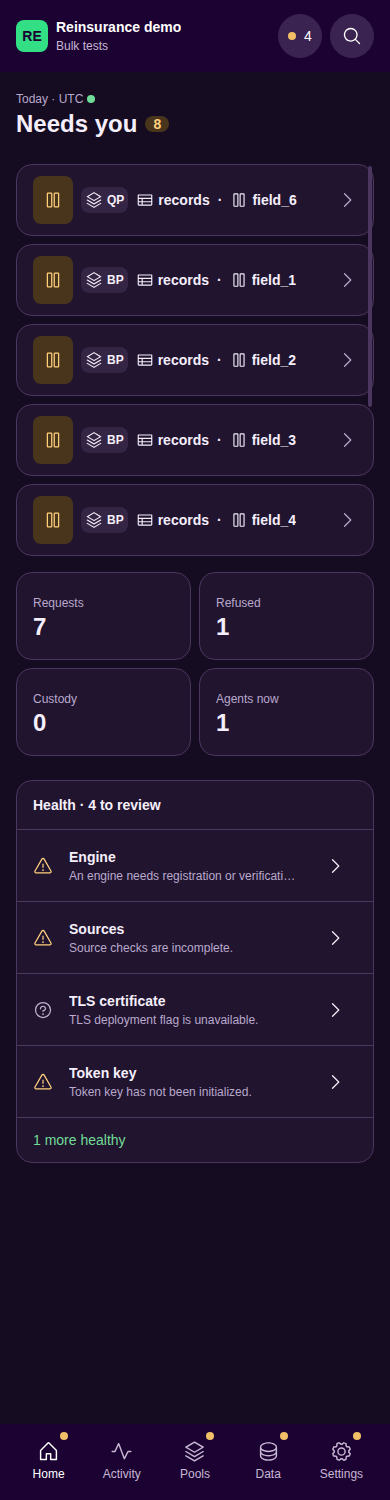
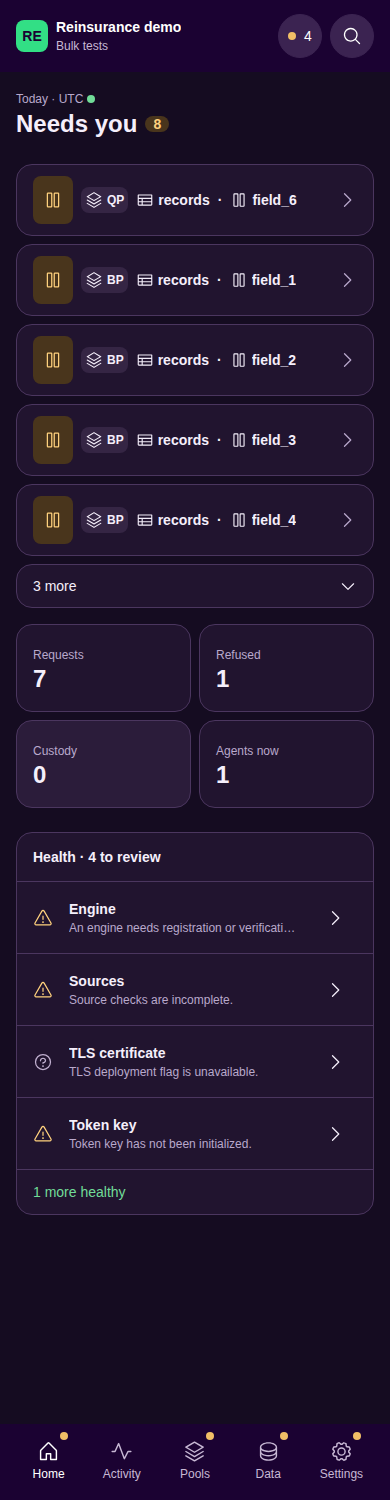
Expand remaining Home needs-you items in place on phones

diff --git a/test/review/console-next.capture.ts b/test/review/console-next.capture.ts
@@ -47,16 +47,26 @@ it('captures Home from real PostgreSQL projections, real engine queries and Redi
     await page.getByRole('heading',{name:/Needs you/}).waitFor();await page.locator('[data-health-icon][aria-label^="TLS certificate:"]').waitFor({state:'attached'});await expect.poll(()=>page.locator('[data-live=true]').count()).toBeGreaterThan(0);await page.evaluate(()=>document.fonts.ready);
     expect(await page.evaluate(()=>document.documentElement.scrollWidth<=window.innerWidth)).toBe(true);
     expect(await page.locator('[data-needs-row]').count()).toBe(expectedNeeds);
-    const queue=page.getByRole('region',{name:'Needs-you items'});expect(await queue.evaluate(el=>el.scrollHeight>el.clientHeight)).toBe(true);
-    await page.keyboard.press('Tab');await page.locator('[data-needs-row]').last().focus();const focus=await page.locator('[data-needs-row]').last().evaluate(el=>({visible:el.matches(':focus-visible'),width:parseFloat(getComputedStyle(el).outlineWidth),style:getComputedStyle(el).outlineStyle}));expect(focus.visible).toBe(true);expect(focus.width).toBeGreaterThanOrEqual(2);expect(focus.style).toBe('solid');const bounds=await queue.boundingBox(),last=await page.locator('[data-needs-row]').last().boundingBox();expect(last!.y).toBeGreaterThanOrEqual(bounds!.y-1);expect(last!.y+last!.height).toBeLessThanOrEqual(bounds!.y+bounds!.height+1);
-    await queue.evaluate(el=>{el.scrollTop=0;});await page.evaluate(()=>{if(document.activeElement instanceof HTMLElement)document.activeElement.blur();});
+    const queue=page.getByRole('region',{name:'Needs-you items'});
+    if(width===390){
+     expect(await page.locator('[data-needs-row]:visible').count()).toBe(Math.min(5,expectedNeeds));
+     expect(await queue.evaluate(el=>el.scrollHeight<=el.clientHeight+1)).toBe(true);
+     const more=page.getByRole('button',{name:`${expectedNeeds-5} more`,exact:true});await more.click();
+     expect(await page.locator('[data-needs-row]:visible').count()).toBe(expectedNeeds);expect(await queue.evaluate(el=>el.scrollHeight<=el.clientHeight+1)).toBe(true);
+    }else{
+     expect(await queue.evaluate(el=>el.scrollHeight>el.clientHeight)).toBe(true);expect(await page.locator('[data-needs-more]').isVisible()).toBe(false);
+    }
+    await page.keyboard.press('Tab');await page.locator('[data-needs-row]').last().focus();const focus=await page.locator('[data-needs-row]').last().evaluate(el=>({visible:el.matches(':focus-visible'),width:parseFloat(getComputedStyle(el).outlineWidth),style:getComputedStyle(el).outlineStyle}));expect(focus.visible).toBe(true);expect(focus.width).toBeGreaterThanOrEqual(2);expect(focus.style).toBe('solid');
+    const bounds=await queue.boundingBox(),last=await page.locator('[data-needs-row]').last().boundingBox();expect(last!.y).toBeGreaterThanOrEqual(bounds!.y-1);expect(last!.y+last!.height).toBeLessThanOrEqual(bounds!.y+bounds!.height+1);
+    if(width===390){await page.getByRole('button',{name:'Show fewer',exact:true}).click();expect(await page.locator('[data-needs-row]:visible').count()).toBe(5);}
+    await queue.evaluate(el=>{el.scrollTop=0;});await page.evaluate(()=>{if(document.activeElement instanceof HTMLElement)document.activeElement.blur();window.scrollTo(0,0);});
     expect(await page.locator('[data-need-effect]').count()).toBe(0);expect(await page.locator('[data-needs]').textContent()).not.toContain('—');
     for(const name of ['Pools','Data','Settings'])expect(await page.getByRole('navigation',{name:'Main navigation'}).getByRole('link',{name}).locator('[data-attention]').count()).toBe(1);
     if(width===1440){const check=page.locator('[data-health-icon][data-status=warning]').first();await check.hover();await page.getByRole('tooltip').waitFor();expect(await page.getByRole('tooltip').textContent()).toMatch(/verification|check|initialized/);}
     await page.keyboard.press('Escape');await page.mouse.move(100,800);if(width===1440){await page.getByRole('tooltip').waitFor({state:'hidden'});await page.locator('[data-kind=table]').first().hover();await page.getByRole('tooltip').waitFor();expect(await page.getByRole('tooltip').textContent()).toBe('table');await page.keyboard.press('Escape');await page.mouse.move(100,800);await page.getByRole('tooltip').waitFor({state:'hidden'});}
 
     if(width===390){for(const link of await page.locator('[data-rail] nav a').all()){const box=await link.boundingBox();expect(box).not.toBeNull();expect(box!.width).toBeGreaterThanOrEqual(44);expect(box!.height).toBeGreaterThanOrEqual(44);expect(box!.y+box!.height).toBeLessThanOrEqual(height);}}
-    await page.screenshot({path:`${directory}/home-${width}-${theme}.png`,fullPage:true});
+    if(width===390)await page.screenshot({path:`${directory}/home-${width}-${theme}.png`,fullPage:true});
    }
   }
   // Persisting a new completion updates the band through the actual stream.
@@ -69,6 +79,6 @@ it('captures Home from real PostgreSQL projections, real engine queries and Redi
   await page.emulateMedia({reducedMotion:'no-preference'});await page.getByText('field_6',{exact:true}).first().click();await page.locator('[data-need-effect]').waitFor();await page.waitForTimeout(250);await page.locator('[data-needs-row][aria-expanded=true]').click();
   await hub.close();await page.getByText('Polling · 15 s').waitFor();
   await context.close();expect(errors).toEqual([]);expect(responses.filter(r=>r.status>=400)).toEqual([]);
-  const stats=unwrap(await new PostgresDashboardReader().stats(f.ctx));await writeFile(`${directory}/capture.json`,JSON.stringify({capturedAt:new Date().toISOString(),fixture:'Isolated test database; real PostgreSQL read models, real Engine requests and Redis SSE. Authentication supplied by the fixture, not production credentials.',viewportPairs:[[1440,1000],[390,1500]],queueItems:expectedNeeds,allQueueRowsReachable:true,attentionAreas:['Pools','Data','Settings'],reducedMotion:'reduce',keyboardFocusVisible:true,kindHoverVerified:true,healthReasonHoverVerified:true,bandFiltersVerified:true,requestsAtCapture:7,requestsAfterLiveCheck:stats.requests,apiResponses:responses,pageErrors:errors},null,2)+'\n');
+  const stats=unwrap(await new PostgresDashboardReader().stats(f.ctx));await writeFile(`${directory}/capture.json`,JSON.stringify({capturedAt:new Date().toISOString(),fixture:'Isolated test database; real PostgreSQL read models, real Engine requests and Redis SSE. Authentication supplied by the fixture, not production credentials.',viewportPairs:[[1440,1000],[390,1500]],screenshotsCaptured:[[390,1500]],phoneInitialItems:5,phoneMoreItems:expectedNeeds-5,phoneExpandsInPlace:true,desktopInnerScroll:true,queueItems:expectedNeeds,allQueueRowsReachable:true,attentionAreas:['Pools','Data','Settings'],reducedMotion:'reduce',keyboardFocusVisible:true,kindHoverVerified:true,healthReasonHoverVerified:true,bandFiltersVerified:true,requestsAtCapture:7,requestsAfterLiveCheck:stats.requests,apiResponses:responses,pageErrors:errors},null,2)+'\n');
  }finally{await browser.close();await vite.close();api.closeAllConnections();await new Promise<void>(resolve=>api.close(()=>resolve()));await hub.close();await redis.close();await f.close();}
 });

diff --git a/src/console-next/home/screen.tsx b/src/console-next/home/screen.tsx
@@ -1,7 +1,7 @@
 import type {CSSProperties} from 'react';
 import {NeedName,needsAreas} from './needs.js';
 import {ExposureDetails} from './exposure.js';
-import {useState,useRef} from 'react';
+import {useState,useRef,useId} from 'react';
 import {motion,useReducedMotion} from 'motion/react';
 import type {ProjectHealthItem} from '../../shared/api/project-health.js';
 import type {NeedsYouItem} from '../../shared/api/needs-you.js';
@@ -31,11 +31,11 @@ function kindFor(item:NeedsYouItem):Kind|'settings'|'tls'|'engine'{if(item.kind=
 function actionFor(item:NeedsYouItem){return item.kind==='undecided_entitlement'?'Decide':item.kind==='missing_row_decision'?'Set rows':item.kind==='setting_required'?'Set':item.kind==='suggestion'?'Review':'Check';}
 function effectFor(item:NeedsYouItem){return item.kind==='undecided_entitlement'?`${item.count===1?'This column stays':`${item.count} columns stay`} hidden from agents until a treatment is decided.`:item.kind==='missing_row_decision'?'This table stays unavailable to this pool until row access is decided.':item.kind==='suggestion'?'Review the suggested relationship before changing treatments.':item.kind==='observation'?'The recorded finding stays open until its owning condition changes.':'Review the saved setting or check at its destination. Opening this item changes no configuration.';}
 export function NeedsList({items,project,complete,live}:{items:NeedsYouItem[];project:Project;complete:boolean;live:boolean}){
- const order=useHomeState(s=>s.order),expandedId=useHomeState(s=>s.expandedNeed),toggle=useHomeState(s=>s.toggleNeed),reduced=useReducedMotion(),ordered=orderNeeds(items,order,project.role);
- return <section data-needs><header><span data-mobile-today>Today · UTC <span data-live={live} role="img" aria-label={live?'Live updates':'Polling every 15 seconds'}/></span><h1>Needs you <span data-badge data-status="warning">{items.length}{complete?'':'+'}</span></h1></header>{!items.length?<ListState state="empty"/>:<ScrollArea.Root type="always" data-needs-scroll style={{'--queue-rows':items.length} as CSSProperties}><ScrollArea.Viewport data-needs-viewport tabIndex={0} role="region" aria-label="Needs-you items"><ul>{ordered.map(item=>{
+ const queueId=useId(),showAll=useHomeState(s=>s.showAllNeeds),toggleAll=useHomeState(s=>s.toggleAllNeeds),order=useHomeState(s=>s.order),expandedId=useHomeState(s=>s.expandedNeed),toggle=useHomeState(s=>s.toggleNeed),reduced=useReducedMotion(),ordered=orderNeeds(items,order,project.role);
+ return <section data-needs data-phone-expanded={showAll}><header><span data-mobile-today>Today · UTC <span data-live={live} role="img" aria-label={live?'Live updates':'Polling every 15 seconds'}/></span><h1>Needs you <span data-badge data-status="warning">{items.length}{complete?'':'+'}</span></h1></header>{!items.length?<ListState state="empty"/>:<ScrollArea.Root type="always" data-needs-scroll style={{'--queue-rows':items.length} as CSSProperties}><ScrollArea.Viewport id={queueId} data-needs-viewport tabIndex={0} role="region" aria-label="Needs-you items"><ul>{ordered.map((item,index)=>{
  const expanded=item.id===expandedId,detailId='need-effect-'+encodeURIComponent(item.id);
- return <motion.li key={item.id} layout={reduced?false:'position'} initial={false} transition={{duration:reduced?0:0.2}}><button data-needs-row aria-expanded={expanded} aria-controls={detailId} onClick={()=>toggle(item.id)}><Tip label={kindFor(item).replaceAll('_',' ')}><span role="img" aria-label={kindFor(item).replaceAll('_',' ')} data-kind-tile data-tone={item.kind==='undecided_entitlement'||item.kind==='missing_row_decision'?'decision':'neutral'}><Glyph name={kindFor(item)} size={20}/></span></Tip><span data-need-copy><NeedName item={item}/></span><span data-row-action>{item.roles.includes(project.role)?actionFor(item):'View'}</span><span data-mobile-chevron><Glyph name="chevron" size={20}/></span></button>{expanded&&<motion.div id={detailId} data-need-effect initial={reduced?false:{opacity:0}} animate={{opacity:1}} transition={{duration:reduced?0:0.2}}><p title={effectFor(item)}>{item.kind==='undecided_entitlement'?(item.count===1?'Column stays hidden until treated':'Columns stay hidden until treated'):effectFor(item)}</p><a data-action href={item.targetRoute}>{item.roles.includes(project.role)?actionFor(item):'View details'}<Glyph name="chevron" size={18}/></a></motion.div>}</motion.li>;
- })}</ul>{!complete&&<p data-list-note role="alert">The complete queue could not be read. Retry to load all items.</p>}</ScrollArea.Viewport><ScrollArea.Scrollbar orientation="vertical" data-scrollbar><ScrollArea.Thumb data-scroll-thumb/></ScrollArea.Scrollbar></ScrollArea.Root>}
+ return <motion.li key={item.id} data-phone-extra={index>=5&&!showAll?true:undefined} layout={reduced?false:'position'} initial={false} transition={{duration:reduced?0:0.2}}><button data-needs-row aria-expanded={expanded} aria-controls={detailId} onClick={()=>toggle(item.id)}><Tip label={kindFor(item).replaceAll('_',' ')}><span role="img" aria-label={kindFor(item).replaceAll('_',' ')} data-kind-tile data-tone={item.kind==='undecided_entitlement'||item.kind==='missing_row_decision'?'decision':'neutral'}><Glyph name={kindFor(item)} size={20}/></span></Tip><span data-need-copy><NeedName item={item}/></span><span data-row-action>{item.roles.includes(project.role)?actionFor(item):'View'}</span><span data-mobile-chevron><Glyph name="chevron" size={20}/></span></button>{expanded&&<motion.div id={detailId} data-need-effect initial={reduced?false:{opacity:0}} animate={{opacity:1}} transition={{duration:reduced?0:0.2}}><p title={effectFor(item)}>{item.kind==='undecided_entitlement'?(item.count===1?'Column stays hidden until treated':'Columns stay hidden until treated'):effectFor(item)}</p><a data-action href={item.targetRoute}>{item.roles.includes(project.role)?actionFor(item):'View details'}<Glyph name="chevron" size={18}/></a></motion.div>}</motion.li>;
+ })}</ul>{!complete&&<p data-list-note role="alert">The complete queue could not be read. Retry to load all items.</p>}</ScrollArea.Viewport><ScrollArea.Scrollbar orientation="vertical" data-scrollbar><ScrollArea.Thumb data-scroll-thumb/></ScrollArea.Scrollbar></ScrollArea.Root>}{items.length>5&&<button data-needs-more aria-expanded={showAll} aria-controls={queueId} onClick={()=>{toggleAll();if(!showAll)requestAnimationFrame(()=>{document.getElementById(queueId)?.querySelectorAll<HTMLButtonElement>('[data-needs-row]')[5]?.focus({preventScroll:true});});}}><span>{showAll?'Show fewer':`${items.length-5} more`}</span><Glyph name="chevron" size={18}/></button>}
  </section>;
 }
 

diff --git a/src/console-next/home/home.test.tsx b/src/console-next/home/home.test.tsx
@@ -19,7 +19,7 @@ const stats=DashboardStats.parse({asOf:now.toISOString(),utcDay:'2026-10-29',poo
 const data:HomeData={stats,summary:{counts:{all:42,refused:7,incomplete:0,answerTreated:10},days:[],custody:[{day:'2026-10-29',state:'granted',origin:null,count:9}]},needs,needsComplete:true,minutes:null,asOf:now.toISOString(),from:'2026-10-29T00:00:00.000Z',to:now.toISOString()};
 const health=ProjectHealth.parse({items:[{kind:'tls',status:'warning',checked_at:null,reason:'Self-signed TLS is in use.',next_action:{label:'Review TLS',href:`/projects/${id}/settings-project`}}]}).items;
 const wrapper=({children}:{children:React.ReactNode})=><QueryClientProvider client={new QueryClient({defaultOptions:{queries:{retry:false}}})}><Tooltip.Provider delayDuration={0}>{children}</Tooltip.Provider></QueryClientProvider>;
-afterEach(()=>{useHomeState.setState({order:'all',theme:'light',expandedNeed:null});vi.useRealTimers();});
+afterEach(()=>{useHomeState.setState({order:'all',theme:'light',expandedNeed:null,showAllNeeds:false});vi.useRealTimers();});
 describe('Home contract',()=>{
  it('uses summary numbers, stats presence and actual needs; hides unavailable strip',()=>{
   render(<HomeView project={project} projects={[project]} data={data} health={health} live onProject={()=>{}}/>,{wrapper});
@@ -94,4 +94,17 @@ it('the Custody band opens only receipts with granted events, not other custody 
  const granted=make(id),expired=make(other),detail=(run:typeof granted,kind:'granted'|'expired')=>EvidenceDetail.parse({...run,releaseEvents:[{grantId:id,receipt:run.id,provider:'local',kind,at:now.toISOString(),alias:'test',actor:null,jurObserved:null}],completedAt:now.toISOString(),tokenKeyVersionUsed:null,truncated:false,refusalCode:null,generatedSql:null,elements:[],stages:[],sources:[]});
  const fetcher=async(path:string)=>({ok:true,status:200,headers:{get:()=>null},text:async()=>JSON.stringify(path.includes('/projects/')?{items:[granted,expired],nextCursor:null}:path.includes('/runs/'+id+'?')?detail(granted,'granted'):detail(expired,'expired'))});
  const result=await readCustodyReceipts(other,data.from,data.to,1,createApiClient(fetcher));expect(result.map(r=>r.id)).toEqual([id]);expect(Object.keys(result[0]!).sort()).toEqual(['id','rowCount','startedAt','status']);
+});
+
+it('phone disclosure shows the exact remaining count and expands in place without removing desktop rows',()=>{
+ const many=Array.from({length:8},(_,i)=>NeedsYouItem.parse({...needs[1],id:'phone:'+i}));
+ const view=render(<HomeView project={project} projects={[project]} data={{...data,needs:many}} health={health} live onProject={()=>{}}/>,{wrapper});
+ expect(view.container.querySelectorAll('[data-needs-row]')).toHaveLength(8);expect(view.container.querySelectorAll('[data-phone-extra=true]')).toHaveLength(3);
+ const more=screen.getByRole('button',{name:'3 more'});expect(more.getAttribute('aria-expanded')).toBe('false');expect(more.getAttribute('aria-controls')).toBe(screen.getByRole('region',{name:'Needs-you items'}).id);
+ fireEvent.click(more);expect(view.container.querySelectorAll('[data-phone-extra=true]')).toHaveLength(0);expect(screen.getByRole('button',{name:'Show fewer'}).getAttribute('aria-expanded')).toBe('true');
+ fireEvent.click(screen.getByRole('button',{name:'Show fewer'}));expect(view.container.querySelectorAll('[data-phone-extra=true]')).toHaveLength(3);
+});
+it('no phone disclosure appears for at most five items and a project switch resets it',()=>{
+ const view=render(<HomeView project={project} projects={[project]} data={data} health={health} live onProject={()=>{}}/>,{wrapper});expect(view.container.querySelector('[data-needs-more]')).toBeNull();
+ act(()=>{useHomeState.getState().toggleAllNeeds();});expect(useHomeState.getState().showAllNeeds).toBe(true);act(()=>{useHomeState.getState().setProject(other);});expect(useHomeState.getState().showAllNeeds).toBe(false);
 });

diff --git a/src/console-next/styles.css b/src/console-next/styles.css
@@ -12,3 +12,14 @@
 
 [data-need-copy] [data-need-name]{display:flex;align-items:center;gap:var(--space-1);min-width:0;overflow:hidden}[data-pool-badge]{display:inline-flex;align-items:center;gap:calc(var(--space-1)/2);flex-shrink:0;padding:calc(var(--space-1)/2);background:var(--neutral);border-radius:var(--radius-1);font-size:var(--text-1)}[data-table-names]{display:flex;min-width:0;flex:0 1 auto;gap:calc(var(--space-1)/2);overflow:hidden}[data-table-names]>span,[data-column-name]{display:inline-flex;align-items:center;gap:calc(var(--space-1)/2);min-width:0;overflow:hidden}[data-table-names]>span>span:last-child,[data-column-name]>span:last-child{overflow:hidden;text-overflow:ellipsis;white-space:nowrap}[data-column-name]{flex:1;min-width:0}[data-kind]{display:inline-flex;flex-shrink:0}[data-need-effect]{height:var(--row-detail);padding:var(--space-1) var(--space-2);display:flex;align-items:center;justify-content:space-between;gap:var(--space-2);background:var(--surface-hover);border-top:var(--hairline) solid var(--border)}[data-need-effect] p{min-width:0;overflow:hidden;white-space:nowrap;text-overflow:ellipsis;color:var(--muted);font-size:var(--text-1)}[data-need-effect] [data-action]{flex-shrink:0}[data-needs-row][aria-expanded=true] [data-mobile-chevron]{transform:rotate(90deg)}
 [data-needs-row]:focus-visible,[data-needs-viewport]:focus-visible{outline-offset:calc(var(--focus)*-1)}
+
+[data-needs-more]{display:none}
+@media(max-width:700px){
+ [data-needs-scroll]{height:auto!important;overflow:visible!important}
+ [data-needs-viewport]{height:auto!important;overflow:visible!important}
+ [data-phone-extra=true]{display:none}
+ [data-needs-scroll] [data-scrollbar]{display:none!important}
+ [data-needs-more]{display:flex;align-items:center;justify-content:space-between;width:100%;min-height:var(--touch);margin-top:var(--space-1);padding:var(--space-1) var(--space-2);border-radius:var(--radius-2);background:var(--surface);color:var(--ink)}
+ [data-needs-more] svg{transform:rotate(90deg)}
+ [data-needs-more][aria-expanded=true] svg{transform:rotate(-90deg)}
+}

diff --git a/src/console-next/home/state.ts b/src/console-next/home/state.ts
@@ -1,7 +1,7 @@
 import {create} from 'zustand';
 export type Order='all'|'decisions'|'running';
 export type Theme='light'|'dark';
-export const useHomeState=create<{order:Order;theme:Theme;expandedNeed:string|null;toggleNeed:(id:string)=>void;project:string|null;setProject:(project:string)=>void;setOrder:(order:Order)=>void;setTheme:(theme:Theme)=>void}>(set=>({
- order:'all',expandedNeed:null,toggleNeed:id=>set(state=>({expandedNeed:state.expandedNeed===id?null:id})),project:typeof window==='undefined'?null:new URLSearchParams(window.location.search).get('project'),setProject:project=>set({project}),theme:typeof window!=='undefined'&&(new URLSearchParams(window.location.search).get('theme')==='dark'||(!new URLSearchParams(window.location.search).has('theme')&&window.matchMedia('(prefers-color-scheme: dark)').matches))?'dark':'light',
+export const useHomeState=create<{order:Order;theme:Theme;showAllNeeds:boolean;toggleAllNeeds:()=>void;expandedNeed:string|null;toggleNeed:(id:string)=>void;project:string|null;setProject:(project:string)=>void;setOrder:(order:Order)=>void;setTheme:(theme:Theme)=>void}>(set=>({
+ order:'all',showAllNeeds:false,toggleAllNeeds:()=>set(state=>({showAllNeeds:!state.showAllNeeds})),expandedNeed:null,toggleNeed:id=>set(state=>({expandedNeed:state.expandedNeed===id?null:id})),project:typeof window==='undefined'?null:new URLSearchParams(window.location.search).get('project'),setProject:project=>set({project,showAllNeeds:false}),theme:typeof window!=='undefined'&&(new URLSearchParams(window.location.search).get('theme')==='dark'||(!new URLSearchParams(window.location.search).has('theme')&&window.matchMedia('(prefers-color-scheme: dark)').matches))?'dark':'light',
  setOrder:order=>set({order}),setTheme:theme=>set({theme}),
 }));

diff --git a/docs/review/console-backend/phase1.md b/docs/review/console-backend/phase1.md
@@ -29,7 +29,8 @@ changes and respects reduced motion. Text contrast pairs are tested at AA.
   All/Decisions/Running it and the viewer's role reorder the same queue. Expanding
   an item reveals its effect and the link to the existing resolving screen.
   Collapsed rows show no effect line. Every item remains in the internal scroll
-  viewport; pages are read through the terminal cursor.
+  viewport on desktop; phones show five plus an expanding “N more” row. Pages
+  are read through the terminal cursor.
 - Requests/refusals/custody use `/runs/summary`; connected agents use `/stats`.
   Custody means receipts with grants, not decrypted values. Numbers open their
   filtered existing list or a Home drill-down of actual API records. The custody
@@ -50,7 +51,8 @@ changes and respects reduced motion. Text contrast pairs are tested at AA.
 The layout follows 02-HomeLight and 03-HomeMobile: desktop rail, project switcher,
 health/order header, four numbers, queue/height-filling ring, then the strip;
 phone header, queue, stacked two-by-two numbers, health list and fixed bottom
-navigation. The queue has fixed-height rows with an internal scroll area.
+navigation. The queue has fixed-height rows: desktop uses an internal scroll area; phones
+show five items plus an exact “N more” disclosure and expand in the page.
 
 Intentional differences dictated by available backend facts:
 
@@ -89,7 +91,7 @@ actual API response statuses, live-check counts and browser page errors.
 
 ## Validation
 
-- `npm run console:test`: 14 tests passed (including light/dark AA text pairs).
+- `npm run console:test`: 16 tests passed (including light/dark AA text pairs).
 - `npm run typecheck`: passed, strict.
 - `npm run lint`: passed; no dependency violations.
 - Targeted backend/contract suite: 43 tests passed across health, completion,
@@ -106,8 +108,9 @@ The local test database was missing existing migration 087. It was applied using
 application environment file was changed. The screenshot browser ran in Docker
 because native Playwright Chromium does not support this Mac's OS version.
 
-No full gate or merge was run. The Home review follow-up authorizes a commit
-and push to `feat/console-home-fixes`; the final handoff records its commit.
+The phone-completion follow-up authorizes one full gate after its commit on
+`feat/console-home-fixes`, then merge and push to main only on pass. The final
+handoff records the gate outcome and merge commit.
 
 
 ## Home review confirmations
@@ -120,7 +123,8 @@ and push to `feat/console-home-fixes`; the final handoff records its commit.
   tooltips name the kind. Pool badges show the full pool name on hover. Row
   separators are `·`; tables/views retain their actual kind.
 - **Keyboard focus:** the queue is a focusable region, every row remains
-  reachable, and focused rows have a visible inset token-blue outline. Browser
+  reachable (using “N more” on phones), and focused rows have a visible inset
+  token-blue outline. Browser
   checks reach the last row at both widths and assert `:focus-visible` plus its
   solid outline. No row is sliced out of the DOM.
 - **Reduced motion:** Motion layout/fades are disabled for the reduced-motion

diff --git a/docs/review/console-backend/home-fixes.md b/docs/review/console-backend/home-fixes.md
@@ -1,11 +1,12 @@
 # Home review fixes
 
 Delivery branch: `feat/console-home-fixes`. The current console is unchanged.
-This branch contains the parallel Home and its reviewed corrections; no merge
-or full gate is part of this delivery.
+This branch contains the parallel Home and its reviewed corrections. The phone
+completion authorizes one full gate after commit, then merge/push only on pass.
 
 1. Every needs-you page is read to its terminal cursor. All items remain mounted
-   in fixed-height rows, with scrolling inside the card. Keyboard focus reaches
+   in fixed-height rows. Desktop scrolls inside the card; phones show five items
+   plus “N more”, expanding the remainder into the page. Keyboard focus reaches
    the final item. The former 100-page cap is covered by a 101-page regression.
 2. Known setup and failed-check findings use warning, including missing engine
    registration/verification, failed or incomplete source checks, uninitialized
@@ -29,7 +30,7 @@ cover these behaviors. No authorization, entitlement or query guard changed.
 
 ## Validation
 
-- Console tests: 14 passed.
+- Console tests: 16 passed.
 - Needs-you/health backend tests: 10 passed.
 - Strict typecheck: passed.
 - Lint: passed.
@@ -50,3 +51,15 @@ cover these behaviors. No authorization, entitlement or query guard changed.
 The screenshot numbers/names are actual isolated fixture results, not the
 illustrative reference values. Mail remains omitted; an unreadable TLS flag is
 unknown. Unrelated pre-existing local changes are excluded from the commit.
+
+
+## Phone completion
+
+Phone width is the existing <=700 px breakpoint. With eight real fixture items,
+Home initially shows five and “3 more”. Expanding shows all eight in place;
+there is no internal phone scroll. Desktop scrolling is unchanged. Project
+switches reset the phone disclosure. Screenshots above are the updated phone
+views (desktop reference captures are retained).
+
+The full gate is run exactly once after the candidate commit. Its result and,
+only on pass, the pushed main merge commit are recorded in the final handoff.

diff --git a/docs/slice1-technical-documentation.md b/docs/slice1-technical-documentation.md
@@ -6194,8 +6194,10 @@ badge (derived from its name, full name on hover), table/view and column using
 the shared kind marks; it does not parse a title to infer entity identity.
 
 All needs-you pages are read to the terminal cursor, with repeated cursors
-rejected. Every item is in the fixed-row list; its bounded, keyboard-focusable
-viewport scrolls inside the card. Expanding a row alone reveals its effect and
+rejected. Desktop keeps every item in the fixed-row list and its bounded,
+keyboard-focusable viewport scrolls inside the card. At phone widths (<=700 px),
+only the first five items are initially visible; an exact “N more” row expands
+the remaining items in place with natural page scrolling. Expanding a row alone reveals its effect and
 resolving action. Navigation dots derive only from needs-you kinds: column/row
 findings mark Data and Pools; settings/check findings mark Settings.
 

diff --git a/docs/test-specification.md b/docs/test-specification.md
@@ -1835,3 +1835,11 @@ expansion, needs-only area dots, and granted-receipt custody filtering.
 The manual capture asserts visible keyboard focus, kind/reason hover text,
 all four viewport/theme variants, real filter drill-downs and reduced-motion
 expansion. No governance assertion or normal-test hang guard is weakened.
+
+Phone Home completion: at <=700 px only the first five rows are initially
+visible; the exact remaining count expands the complete list in the page,
+without an inner scroll. Collapse and project switches reset the disclosure.
+Desktop still renders every row in its bounded inner viewport. Console units
+cover the count/state contract; the real-browser capture checks responsive
+visibility, expansion and absence/presence of internal scrolling, with phone
+light/dark artifacts. Full gate runs once after the candidate commit.

diff --git a/src/console-next/README.md b/src/console-next/README.md
@@ -52,8 +52,9 @@ fixture identity. No API responses or rendered numbers are mocked for captures.
 Artifacts go to `docs/review/console-backend/phase1-screenshots/`.
 
 
-Review corrections: the entire queue remains in a fixed-height scroll viewport,
-including rows below the fold. Decision labels use API-provided pool/table/column
+Review corrections: desktop keeps the entire queue in a fixed-height scroll
+viewport. Phones show five items plus an exact “N more” disclosure; expanding
+reveals the rest in the page without internal scrolling. Decision labels use API-provided pool/table/column
 context and shared kind icons; effects appear only on expansion. Area dots use
 needs-you items rather than health counts. Known setup/check findings warn;
 unknown means an unavailable check. Header hover includes the actual reason.

diff --git a/docs/implementation-plan.md b/docs/implementation-plan.md
@@ -1388,3 +1388,10 @@ areas, and map known setup/check findings to warning. Confirm filtered number
 links, kind hover names, keyboard focus and reduced motion in tests and fresh
 1440/390 light/dark captures. Lint, strict typecheck and targeted tests replace
 the full gate here. Commit and push `feat/console-home-fixes`; do not merge.
+
+29 October phone completion: at widths up to 700 px, show the first five
+needs-you items and an exact “N more” disclosure that expands in the page;
+desktop retains its inner scroll. Run lint, strict typecheck, console tests and
+phone light/dark captures. Commit on `feat/console-home-fixes`, then run the full
+completed-candidate gate exactly once. Only a pass authorizes merge to main and
+push; any failure stops this delivery without a retry or code changes.
